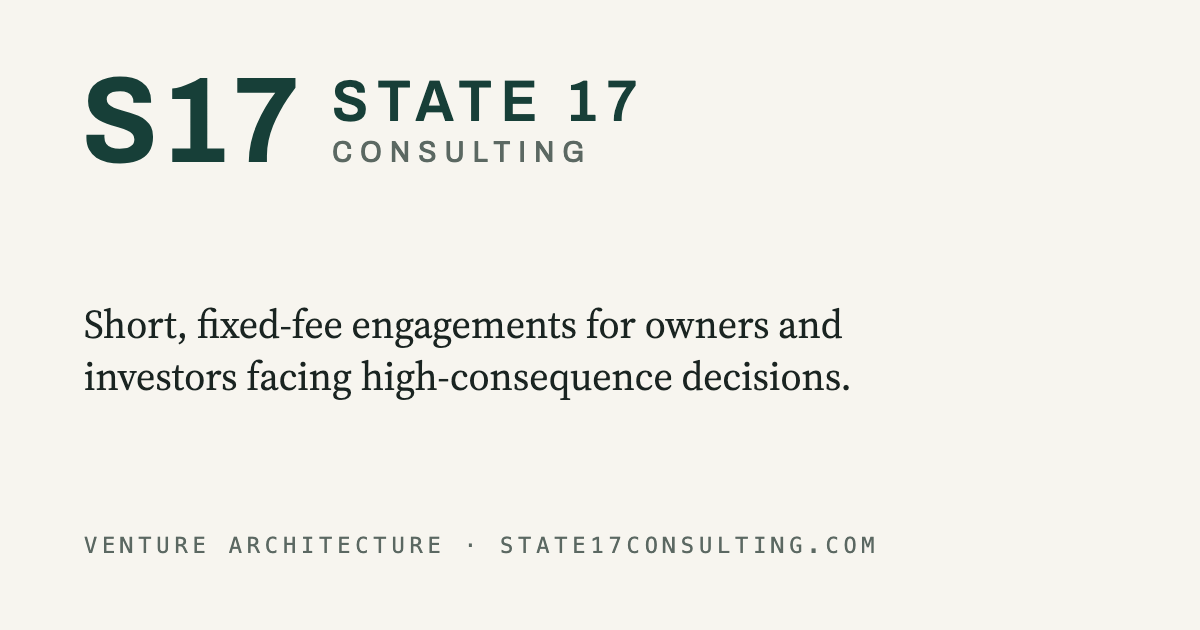
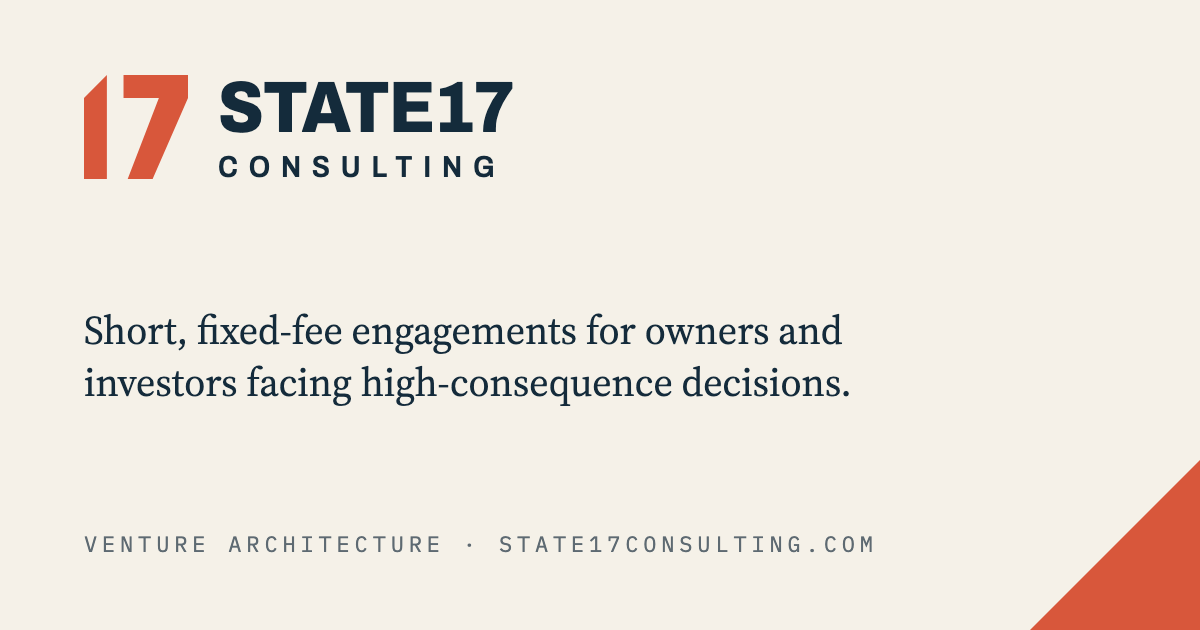
Draft: apply identity study 01 to the existing frame
Midnight navy and vermilion on ivory, a hand-drawn geometric 17 symbol,
STATE17 / CONSULTING lockup. Same structure as the study 03 draft. Not deployed.

diff --git a/index.html b/index.html
@@ -12,7 +12,7 @@
 <link rel="canonical" href="https://state17consulting.com/">
 <link rel="icon" href="/assets/favicon.svg" type="image/svg+xml">
 <link rel="apple-touch-icon" href="/assets/apple-touch-icon.png">
-<meta name="theme-color" content="#173F38">
+<meta name="theme-color" content="#142B3B">
 <meta property="og:type" content="website">
 <meta property="og:site_name" content="State 17 Consulting">
 <meta property="og:title" content="State 17 Consulting · A boutique venture architecture firm">
@@ -21,7 +21,7 @@
 <meta property="og:image" content="https://state17consulting.com/assets/og.png">
 <meta property="og:image:width" content="1200">
 <meta property="og:image:height" content="630">
-<meta property="og:image:alt" content="S17. State 17 Consulting. A boutique venture architecture firm.">
+<meta property="og:image:alt" content="17 symbol. State17 Consulting. A boutique venture architecture firm.">
 <meta name="twitter:card" content="summary_large_image">
 <script type="application/ld+json">
 {
@@ -162,7 +162,7 @@
 :root{
   --hero-image:none;
 
-  --bg:#F7F5EF; --fg:#1A2421; --muted:#5B6862; --rule:#DCD8CC; --accent:#173F38; --tint:#EFEBE0;
+  --bg:#F5F1E8; --fg:#142B3B; --muted:#5E6A72; --rule:#DBD4C6; --accent:#142B3B; --accent2:#D8573B; --tint:#EDE8DC;
   --display:"Archivo","Helvetica Neue",Arial,sans-serif;
   --body:"Source Serif 4",Georgia,"Times New Roman",serif;
   --mono:"IBM Plex Mono",ui-monospace,Menlo,Consolas,monospace;
@@ -185,10 +185,10 @@ p{margin:0}
 .top{border-bottom:1px solid var(--rule);position:relative;z-index:2}
 .top .wrap{display:grid;grid-template-columns:auto 1fr auto;align-items:center;gap:1.25rem;padding-block:1rem}
 .mark{display:flex;align-items:center;gap:.8rem;text-decoration:none;color:var(--accent)}
-.mark img{height:1.35rem;width:auto;display:block}
-.mark .name{display:grid;line-height:1.05;font-family:var(--display);font-stretch:92%;text-transform:uppercase}
-.mark .name b{font-weight:600;font-size:.98rem;letter-spacing:.16em}
-.mark .name small{font-weight:500;font-size:.58rem;letter-spacing:.24em;color:var(--muted)}
+.mark img{height:1.55rem;width:auto;display:block}
+.mark .name{display:grid;line-height:1;font-family:var(--display);font-stretch:90%;text-transform:uppercase}
+.mark .name b{font-weight:800;font-size:1.12rem;letter-spacing:-.005em}
+.mark .name small{font-weight:600;font-size:.56rem;letter-spacing:.34em;color:var(--fg);margin-top:.12rem}
 .tag{font-family:var(--display);font-stretch:85%;font-weight:600;font-size:.95rem;color:var(--muted)}
 .legal{font-family:var(--mono);font-size:.74rem;letter-spacing:.06em;text-transform:uppercase;color:var(--muted);white-space:nowrap}
 @media (max-width:640px){.top .wrap{grid-template-columns:1fr;row-gap:.35rem}.top .legal{display:none}}
@@ -207,9 +207,9 @@ p{margin:0}
 .hero .statement{font-size:clamp(1.15rem,2.2vw,1.5rem);max-width:34rem;text-wrap:pretty}
 .hero .by{font-family:var(--mono);font-size:.78rem;letter-spacing:.06em;color:var(--muted)}
 .dots{position:absolute;z-index:2;right:max(20px,env(safe-area-inset-right,0px));bottom:1.25rem;display:flex;gap:.5rem;margin:0;padding:0;list-style:none}
-.dots button{appearance:none;width:.7rem;height:.7rem;border-radius:50%;border:1.5px solid var(--accent);background:transparent;padding:0;cursor:pointer;transition:background .3s}
-.dots button[aria-current="true"]{background:var(--accent)}
-.dots button:hover{background:color-mix(in srgb,var(--accent) 45%,transparent)}
+.dots button{appearance:none;width:.7rem;height:.7rem;border-radius:50%;border:1.5px solid var(--accent2);background:transparent;padding:0;cursor:pointer;transition:background .3s}
+.dots button[aria-current="true"]{background:var(--accent2)}
+.dots button:hover{background:color-mix(in srgb,var(--accent2) 45%,transparent)}
 @media (prefers-reduced-motion:reduce){.slide{transition:none}}
 
 /* Plain-terms definition */
@@ -219,10 +219,10 @@ p{margin:0}
 .plain p{max-width:44rem;font-size:1.05rem}
 .plain h2{margin:0}
 .plain .sig{display:grid;gap:.1rem;margin-top:.5rem}
-.plain .sig b{font-family:var(--display);font-stretch:80%;font-weight:720;font-size:1.15rem;color:var(--accent)}
+.plain .sig b{font-family:var(--display);font-stretch:80%;font-weight:720;font-size:1.15rem;color:var(--fg)}
 .plain .sig span{font-family:var(--mono);font-size:.72rem;letter-spacing:.06em;text-transform:uppercase;color:var(--muted)}
 .plain .founder{margin:0}
-.plain .founder img{display:block;width:100%;height:auto;border:1px solid var(--rule)}
+.plain .founder img{display:block;width:100%;height:auto;border-bottom:6px solid var(--accent2)}
 @media (max-width:700px){.plain .wrap{grid-template-columns:1fr}.plain .founder{max-width:15rem}}
 
 /* Audience cards: four portrait cards */
@@ -233,21 +233,21 @@ p{margin:0}
 .cards li{display:grid}
 @media (max-width:900px){.cards{grid-template-columns:repeat(2,1fr)}}
 @media (max-width:480px){.cards{grid-template-columns:1fr}}
-.card{display:grid;grid-template-rows:auto 1fr auto;gap:1rem;min-height:17rem;padding:1.25rem;border:1px solid var(--rule);background:#FFFDF9;color:inherit;text-decoration:none;transition:border-color .2s,transform .2s}
-.card:hover,.card:focus-visible{border-color:var(--accent);transform:translateY(-2px)}
+.card{display:grid;grid-template-rows:auto 1fr auto;gap:1rem;min-height:17rem;padding:1.25rem;border:1px solid var(--rule);background:#FBF9F3;color:inherit;text-decoration:none;transition:border-color .2s,transform .2s}
+.card:hover,.card:focus-visible{border-color:var(--accent2);transform:translateY(-2px)}
 .card .head{display:flex;justify-content:space-between;align-items:baseline;gap:.5rem}
 .card .head b{font-family:var(--display);font-stretch:80%;font-weight:720;font-size:clamp(1.1rem,1.6vw,1.3rem)}
 .card .head small{font-family:var(--mono);font-size:.66rem;letter-spacing:.06em;text-transform:uppercase;color:var(--muted)}
 .card .ex{display:grid;gap:.45rem;align-content:start}
-.card .ex .mono{color:var(--accent);font-size:.66rem}
+.card .ex .mono{color:var(--accent2);font-size:.66rem}
 .card .ex h3{font-family:var(--display);font-stretch:80%;font-weight:700;font-size:1.08rem;line-height:1.25}
 .card .ex p{color:var(--muted);font-size:.92rem;line-height:1.5}
-.card .go{font-family:var(--mono);font-size:.68rem;letter-spacing:.06em;text-transform:uppercase;color:var(--accent)}
+.card .go{font-family:var(--mono);font-size:.68rem;letter-spacing:.06em;text-transform:uppercase;color:var(--accent2)}
 .card .go::after{content:" →"}
 
 /* Fees: one tight table */
 tr.rec td{border-top:2px solid var(--rule)}
-tr.rec td .tagr{display:block;font-family:var(--mono);font-size:.62rem;letter-spacing:.08em;text-transform:uppercase;color:var(--accent);margin-top:.15rem}
+tr.rec td .tagr{display:block;font-family:var(--mono);font-size:.62rem;letter-spacing:.08em;text-transform:uppercase;color:var(--accent2);margin-top:.15rem}
 .fees{padding-block:1rem 4rem}
 .fees .lead{display:grid;gap:.5rem;margin-bottom:1.25rem}
 table{width:100%;border-collapse:collapse;font-size:.98rem}
@@ -256,12 +256,12 @@ th{font-family:var(--mono);font-size:.7rem;font-weight:500;letter-spacing:.08em;
 td b{font-family:var(--display);font-stretch:80%;font-weight:720;font-size:1.05rem;display:block}
 td .q{color:var(--muted)}
 td.len{white-space:nowrap}
-td.fee{font-family:var(--mono);font-size:.82rem;letter-spacing:.03em;white-space:nowrap;color:var(--accent)}
+td.fee{font-family:var(--mono);font-size:.82rem;letter-spacing:.03em;white-space:nowrap;color:var(--accent2)}
 tr td:first-child,tr th:first-child{padding-left:0}
 tr td:last-child,tr th:last-child{padding-right:0;text-align:right}
 @media (max-width:640px){th:nth-child(2),td:nth-child(2){display:none}}
 .btn{font-family:var(--display);font-stretch:85%;font-weight:700;font-size:1rem;letter-spacing:.02em;text-decoration:none;background:var(--accent);color:var(--bg);padding:.85rem 1.4rem;display:inline-block}
-.btn:hover{background:var(--fg);color:var(--bg)}
+.btn:hover{background:var(--accent2);color:var(--bg)}
 .hint{font-family:var(--mono);font-size:.74rem;color:var(--muted)}
 .fees .cta{display:flex;flex-wrap:wrap;align-items:center;gap:1rem 1.5rem;margin-top:1.5rem}
 
@@ -272,7 +272,7 @@ tr td:last-child,tr th:last-child{padding-right:0;text-align:right}
 @media (max-width:640px){.contact .row{grid-template-columns:1fr}}
 .contact label{display:grid;gap:.4rem}
 .contact label span{font-family:var(--mono);font-size:.7rem;letter-spacing:.08em;text-transform:uppercase;color:var(--muted)}
-.contact input,.contact textarea{font-family:var(--body);font-size:1rem;line-height:1.5;color:var(--fg);background:#FFFDF9;border:1px solid var(--rule);border-radius:0;padding:.65rem .8rem;width:100%;margin:0}
+.contact input,.contact textarea{font-family:var(--body);font-size:1rem;line-height:1.5;color:var(--fg);background:#FBF9F3;border:1px solid var(--rule);border-radius:0;padding:.65rem .8rem;width:100%;margin:0}
 .contact input:focus,.contact textarea:focus{outline:2px solid var(--accent);outline-offset:1px;border-color:var(--accent)}
 .contact textarea{min-height:5.5rem;resize:vertical}
 .contact .hp{position:absolute;left:-10000px;top:auto;width:1px;height:1px;overflow:hidden}
@@ -289,7 +289,7 @@ footer a:hover{color:var(--fg)}
 
 <header class="top">
   <div class="wrap">
-    <a class="mark" href="#top" aria-label="State 17 Consulting, home"><img src="/assets/s17-mark.svg" alt="" width="160" height="69"><span class="name" aria-hidden="true"><b>State 17</b><small>Consulting</small></span></a>
+    <a class="mark" href="#top" aria-label="State 17 Consulting, home"><img src="/assets/s17-mark.svg" alt="" width="160" height="69"><span class="name" aria-hidden="true"><b>State17</b><small>Consulting</small></span></a>
     <span class="tag">A boutique venture architecture firm</span>
     <span class="legal">State 17 Consulting LLC</span>
   </div>

diff --git a/404.html b/404.html
@@ -7,13 +7,13 @@
 <meta name="robots" content="noindex">
 <link rel="icon" href="/assets/favicon.svg" type="image/svg+xml">
 <link rel="apple-touch-icon" href="/assets/apple-touch-icon.png">
-<meta name="theme-color" content="#173F38">
+<meta name="theme-color" content="#142B3B">
 <link rel="preconnect" href="https://fonts.googleapis.com">
 <link rel="preconnect" href="https://fonts.gstatic.com" crossorigin>
 <link rel="stylesheet" href="https://fonts.googleapis.com/css2?family=Archivo:wdth,wght@75..100,500..800&family=Source+Serif+4:ital,opsz,wght@0,8..60,400;0,8..60,600;1,8..60,400&family=IBM+Plex+Mono:wght@400;500&display=swap">
 <style>
 :root{
-  --bg:#F7F5EF; --fg:#1A2421; --muted:#5B6862; --rule:#DCD8CC; --accent:#173F38; --tint:#EFEBE0;
+  --bg:#F5F1E8; --fg:#142B3B; --muted:#5E6A72; --rule:#DBD4C6; --accent:#142B3B; --accent2:#D8573B; --tint:#EDE8DC;
   --display:"Archivo","Helvetica Neue",Arial,sans-serif;
   --body:"Source Serif 4",Georgia,"Times New Roman",serif;
   --mono:"IBM Plex Mono",ui-monospace,Menlo,Consolas,monospace;
@@ -31,10 +31,10 @@ p{margin:0}
 .top{border-bottom:1px solid var(--rule)}
 .top .wrap{display:grid;grid-template-columns:auto 1fr auto;align-items:center;gap:1.25rem;padding-block:1rem}
 .mark{display:flex;align-items:center;gap:.8rem;text-decoration:none;color:var(--accent)}
-.mark img{height:1.35rem;width:auto;display:block}
-.mark .name{display:grid;line-height:1.05;font-family:var(--display);font-stretch:92%;text-transform:uppercase}
-.mark .name b{font-weight:600;font-size:.98rem;letter-spacing:.16em}
-.mark .name small{font-weight:500;font-size:.58rem;letter-spacing:.24em;color:var(--muted)}
+.mark img{height:1.55rem;width:auto;display:block}
+.mark .name{display:grid;line-height:1;font-family:var(--display);font-stretch:90%;text-transform:uppercase}
+.mark .name b{font-weight:800;font-size:1.12rem;letter-spacing:-.005em}
+.mark .name small{font-weight:600;font-size:.56rem;letter-spacing:.34em;color:var(--fg);margin-top:.12rem}
 .tag{font-family:var(--display);font-stretch:85%;font-weight:600;font-size:.95rem;color:var(--muted)}
 .legal{font-family:var(--mono);font-size:.74rem;letter-spacing:.06em;text-transform:uppercase;color:var(--muted);white-space:nowrap}
 @media (max-width:640px){.top .wrap{grid-template-columns:1fr;row-gap:.35rem}.top .legal{display:none}}
@@ -44,7 +44,7 @@ p{margin:0}
 .page .statement{font-size:clamp(1.15rem,2.2vw,1.5rem);max-width:34rem;text-wrap:pretty}
 .page .by{font-family:var(--mono);font-size:.78rem;letter-spacing:.06em;color:var(--muted)}
 .btn{font-family:var(--display);font-stretch:85%;font-weight:700;font-size:1rem;letter-spacing:.02em;text-decoration:none;background:var(--accent);color:var(--bg);padding:.85rem 1.4rem;display:inline-block;justify-self:start}
-.btn:hover{background:var(--fg);color:var(--bg)}
+.btn:hover{background:var(--accent2);color:var(--bg)}
 footer{border-top:1px solid var(--rule)}
 footer .wrap{padding-block:1.5rem;display:flex;flex-wrap:wrap;justify-content:space-between;gap:.5rem 1.5rem}
 footer a{color:var(--muted);text-decoration:none}
@@ -55,7 +55,7 @@ footer a:hover{color:var(--fg)}
 
 <header class="top">
   <div class="wrap">
-    <a class="mark" href="/" aria-label="State 17 Consulting, home"><img src="/assets/s17-mark.svg" alt="" width="160" height="69"><span class="name" aria-hidden="true"><b>State 17</b><small>Consulting</small></span></a>
+    <a class="mark" href="/" aria-label="State 17 Consulting, home"><img src="/assets/s17-mark.svg" alt="" width="160" height="69"><span class="name" aria-hidden="true"><b>State17</b><small>Consulting</small></span></a>
     <span class="tag">A boutique venture architecture firm</span>
     <span class="legal">State 17 Consulting LLC</span>
   </div>

diff --git a/clients/index.html b/clients/index.html
@@ -7,13 +7,13 @@
 <meta name="robots" content="noindex">
 <link rel="icon" href="/assets/favicon.svg" type="image/svg+xml">
 <link rel="apple-touch-icon" href="/assets/apple-touch-icon.png">
-<meta name="theme-color" content="#173F38">
+<meta name="theme-color" content="#142B3B">
 <link rel="preconnect" href="https://fonts.googleapis.com">
 <link rel="preconnect" href="https://fonts.gstatic.com" crossorigin>
 <link rel="stylesheet" href="https://fonts.googleapis.com/css2?family=Archivo:wdth,wght@75..100,500..800&family=Source+Serif+4:ital,opsz,wght@0,8..60,400;0,8..60,600;1,8..60,400&family=IBM+Plex+Mono:wght@400;500&display=swap">
 <style>
 :root{
-  --bg:#F7F5EF; --fg:#1A2421; --muted:#5B6862; --rule:#DCD8CC; --accent:#173F38; --tint:#EFEBE0;
+  --bg:#F5F1E8; --fg:#142B3B; --muted:#5E6A72; --rule:#DBD4C6; --accent:#142B3B; --accent2:#D8573B; --tint:#EDE8DC;
   --display:"Archivo","Helvetica Neue",Arial,sans-serif;
   --body:"Source Serif 4",Georgia,"Times New Roman",serif;
   --mono:"IBM Plex Mono",ui-monospace,Menlo,Consolas,monospace;
@@ -31,10 +31,10 @@ p{margin:0}
 .top{border-bottom:1px solid var(--rule)}
 .top .wrap{display:grid;grid-template-columns:auto 1fr auto;align-items:center;gap:1.25rem;padding-block:1rem}
 .mark{display:flex;align-items:center;gap:.8rem;text-decoration:none;color:var(--accent)}
-.mark img{height:1.35rem;width:auto;display:block}
-.mark .name{display:grid;line-height:1.05;font-family:var(--display);font-stretch:92%;text-transform:uppercase}
-.mark .name b{font-weight:600;font-size:.98rem;letter-spacing:.16em}
-.mark .name small{font-weight:500;font-size:.58rem;letter-spacing:.24em;color:var(--muted)}
+.mark img{height:1.55rem;width:auto;display:block}
+.mark .name{display:grid;line-height:1;font-family:var(--display);font-stretch:90%;text-transform:uppercase}
+.mark .name b{font-weight:800;font-size:1.12rem;letter-spacing:-.005em}
+.mark .name small{font-weight:600;font-size:.56rem;letter-spacing:.34em;color:var(--fg);margin-top:.12rem}
 .tag{font-family:var(--display);font-stretch:85%;font-weight:600;font-size:.95rem;color:var(--muted)}
 .legal{font-family:var(--mono);font-size:.74rem;letter-spacing:.06em;text-transform:uppercase;color:var(--muted);white-space:nowrap}
 @media (max-width:640px){.top .wrap{grid-template-columns:1fr;row-gap:.35rem}.top .legal{display:none}}
@@ -44,7 +44,7 @@ p{margin:0}
 .page .statement{font-size:clamp(1.15rem,2.2vw,1.5rem);max-width:34rem;text-wrap:pretty}
 .page .by{font-family:var(--mono);font-size:.78rem;letter-spacing:.06em;color:var(--muted)}
 .btn{font-family:var(--display);font-stretch:85%;font-weight:700;font-size:1rem;letter-spacing:.02em;text-decoration:none;background:var(--accent);color:var(--bg);padding:.85rem 1.4rem;display:inline-block;justify-self:start}
-.btn:hover{background:var(--fg);color:var(--bg)}
+.btn:hover{background:var(--accent2);color:var(--bg)}
 footer{border-top:1px solid var(--rule)}
 footer .wrap{padding-block:1.5rem;display:flex;flex-wrap:wrap;justify-content:space-between;gap:.5rem 1.5rem}
 footer a{color:var(--muted);text-decoration:none}
@@ -55,7 +55,7 @@ footer a:hover{color:var(--fg)}
 
 <header class="top">
   <div class="wrap">
-    <a class="mark" href="/" aria-label="State 17 Consulting, home"><img src="/assets/s17-mark.svg" alt="" width="160" height="69"><span class="name" aria-hidden="true"><b>State 17</b><small>Consulting</small></span></a>
+    <a class="mark" href="/" aria-label="State 17 Consulting, home"><img src="/assets/s17-mark.svg" alt="" width="160" height="69"><span class="name" aria-hidden="true"><b>State17</b><small>Consulting</small></span></a>
     <span class="tag">A boutique venture architecture firm</span>
     <span class="legal">State 17 Consulting LLC</span>
   </div>

diff --git a/thanks.html b/thanks.html
@@ -7,13 +7,13 @@
 <meta name="robots" content="noindex">
 <link rel="icon" href="/assets/favicon.svg" type="image/svg+xml">
 <link rel="apple-touch-icon" href="/assets/apple-touch-icon.png">
-<meta name="theme-color" content="#173F38">
+<meta name="theme-color" content="#142B3B">
 <link rel="preconnect" href="https://fonts.googleapis.com">
 <link rel="preconnect" href="https://fonts.gstatic.com" crossorigin>
 <link rel="stylesheet" href="https://fonts.googleapis.com/css2?family=Archivo:wdth,wght@75..100,500..800&family=Source+Serif+4:ital,opsz,wght@0,8..60,400;0,8..60,600;1,8..60,400&family=IBM+Plex+Mono:wght@400;500&display=swap">
 <style>
 :root{
-  --bg:#F7F5EF; --fg:#1A2421; --muted:#5B6862; --rule:#DCD8CC; --accent:#173F38; --tint:#EFEBE0;
+  --bg:#F5F1E8; --fg:#142B3B; --muted:#5E6A72; --rule:#DBD4C6; --accent:#142B3B; --accent2:#D8573B; --tint:#EDE8DC;
   --display:"Archivo","Helvetica Neue",Arial,sans-serif;
   --body:"Source Serif 4",Georgia,"Times New Roman",serif;
   --mono:"IBM Plex Mono",ui-monospace,Menlo,Consolas,monospace;
@@ -31,10 +31,10 @@ p{margin:0}
 .top{border-bottom:1px solid var(--rule)}
 .top .wrap{display:grid;grid-template-columns:auto 1fr auto;align-items:center;gap:1.25rem;padding-block:1rem}
 .mark{display:flex;align-items:center;gap:.8rem;text-decoration:none;color:var(--accent)}
-.mark img{height:1.35rem;width:auto;display:block}
-.mark .name{display:grid;line-height:1.05;font-family:var(--display);font-stretch:92%;text-transform:uppercase}
-.mark .name b{font-weight:600;font-size:.98rem;letter-spacing:.16em}
-.mark .name small{font-weight:500;font-size:.58rem;letter-spacing:.24em;color:var(--muted)}
+.mark img{height:1.55rem;width:auto;display:block}
+.mark .name{display:grid;line-height:1;font-family:var(--display);font-stretch:90%;text-transform:uppercase}
+.mark .name b{font-weight:800;font-size:1.12rem;letter-spacing:-.005em}
+.mark .name small{font-weight:600;font-size:.56rem;letter-spacing:.34em;color:var(--fg);margin-top:.12rem}
 .tag{font-family:var(--display);font-stretch:85%;font-weight:600;font-size:.95rem;color:var(--muted)}
 .legal{font-family:var(--mono);font-size:.74rem;letter-spacing:.06em;text-transform:uppercase;color:var(--muted);white-space:nowrap}
 @media (max-width:640px){.top .wrap{grid-template-columns:1fr;row-gap:.35rem}.top .legal{display:none}}
@@ -44,7 +44,7 @@ p{margin:0}
 .page .statement{font-size:clamp(1.15rem,2.2vw,1.5rem);max-width:34rem;text-wrap:pretty}
 .page .by{font-family:var(--mono);font-size:.78rem;letter-spacing:.06em;color:var(--muted)}
 .btn{font-family:var(--display);font-stretch:85%;font-weight:700;font-size:1rem;letter-spacing:.02em;text-decoration:none;background:var(--accent);color:var(--bg);padding:.85rem 1.4rem;display:inline-block;justify-self:start}
-.btn:hover{background:var(--fg);color:var(--bg)}
+.btn:hover{background:var(--accent2);color:var(--bg)}
 footer{border-top:1px solid var(--rule)}
 footer .wrap{padding-block:1.5rem;display:flex;flex-wrap:wrap;justify-content:space-between;gap:.5rem 1.5rem}
 footer a{color:var(--muted);text-decoration:none}
@@ -55,7 +55,7 @@ footer a:hover{color:var(--fg)}
 
 <header class="top">
   <div class="wrap">
-    <a class="mark" href="/" aria-label="State 17 Consulting, home"><img src="/assets/s17-mark.svg" alt="" width="160" height="69"><span class="name" aria-hidden="true"><b>State 17</b><small>Consulting</small></span></a>
+    <a class="mark" href="/" aria-label="State 17 Consulting, home"><img src="/assets/s17-mark.svg" alt="" width="160" height="69"><span class="name" aria-hidden="true"><b>State17</b><small>Consulting</small></span></a>
     <span class="tag">A boutique venture architecture firm</span>
     <span class="legal">State 17 Consulting LLC</span>
   </div>
